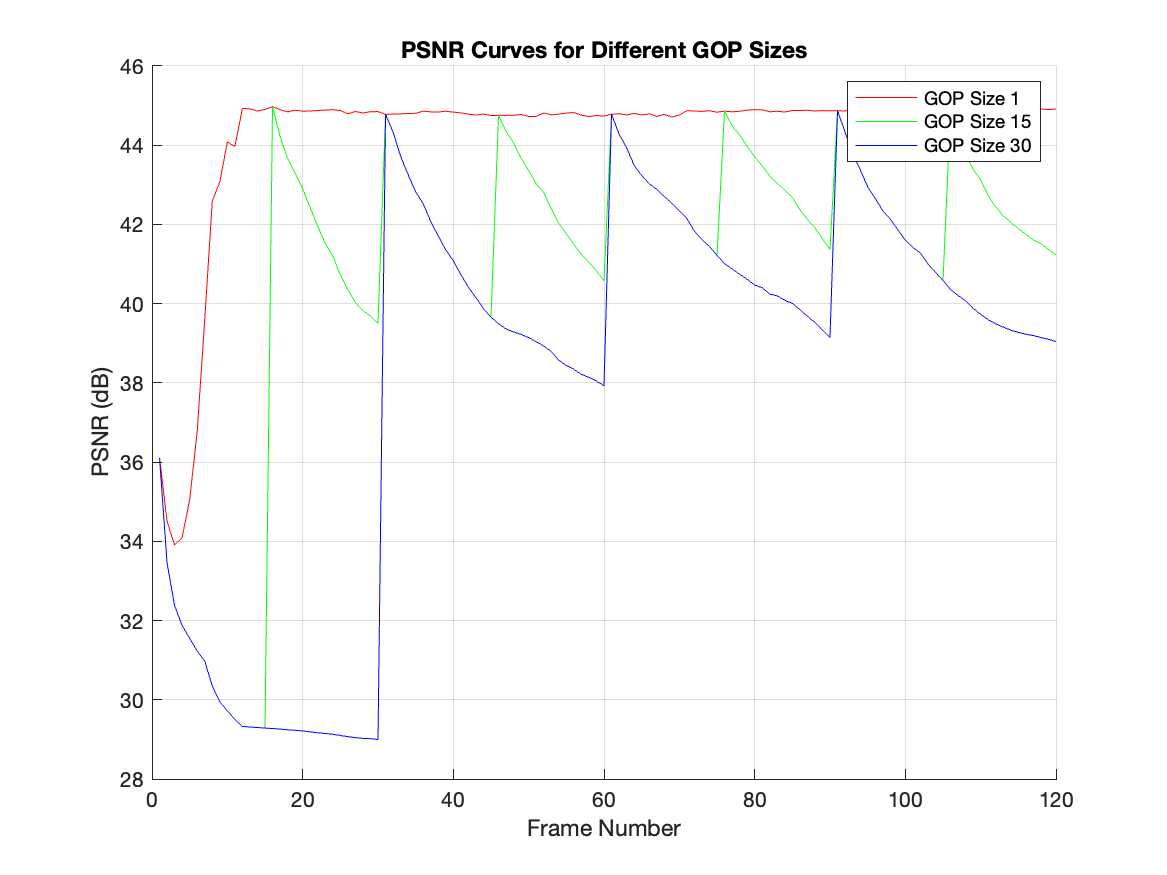
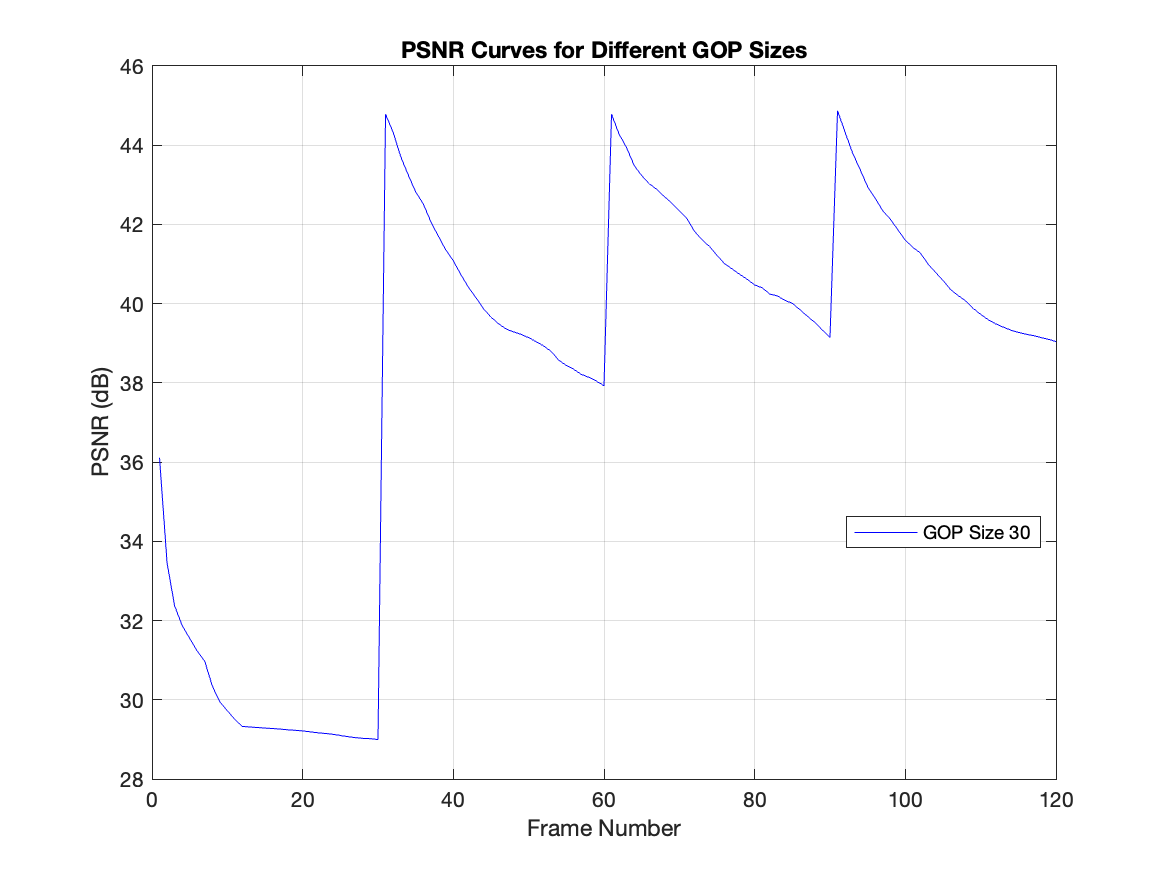
fix: psnr legend location

diff --git a/psnr_analysis.m b/psnr_analysis.m
@@ -30,7 +30,10 @@ end
 GOP_sizes = [1, 15, 30];
 psnr_results = cell(1, length(GOP_sizes));
 
-for g = 1:length(GOP_sizes)
+avg_time = 25; % educated guess
+fprintf('Estimated time left: %.0f secs\n', avg_time*(length(GOP_sizes)));
+for g = 1:length(GOP_sizes)  
+    tic;
     GOP_size = GOP_sizes(g);
     
     % Compress and decompress images
@@ -49,10 +52,12 @@ for g = 1:length(GOP_sizes)
     
     psnr_results{g} = psnr_values;
 
+    elapsed_time = toc;
     avg_time = (avg_time*(GOP_size-1) + elapsed_time)/GOP_size;
     
+    
     fprintf('Time for GOP_size %d: %f seconds\n', GOP_size, elapsed_time);
-    fprintf('Estimated time left: %f mins\n', avg_time*(length(GOP_sizes)-g)/60);
+    fprintf('Estimated time left: %.0f secs\n', avg_time*(length(GOP_sizes)-g));
 end
 
 % Plot PSNR curves
@@ -67,7 +72,7 @@ hold off;
 xlabel('Frame Number');
 ylabel('PSNR (dB)');
 title('PSNR Curves for Different GOP Sizes');
-legend('show');
+legend('show', 'location','best');
 grid on;
 
 saveas(gcf, "assets/psnr_analysis.png")
